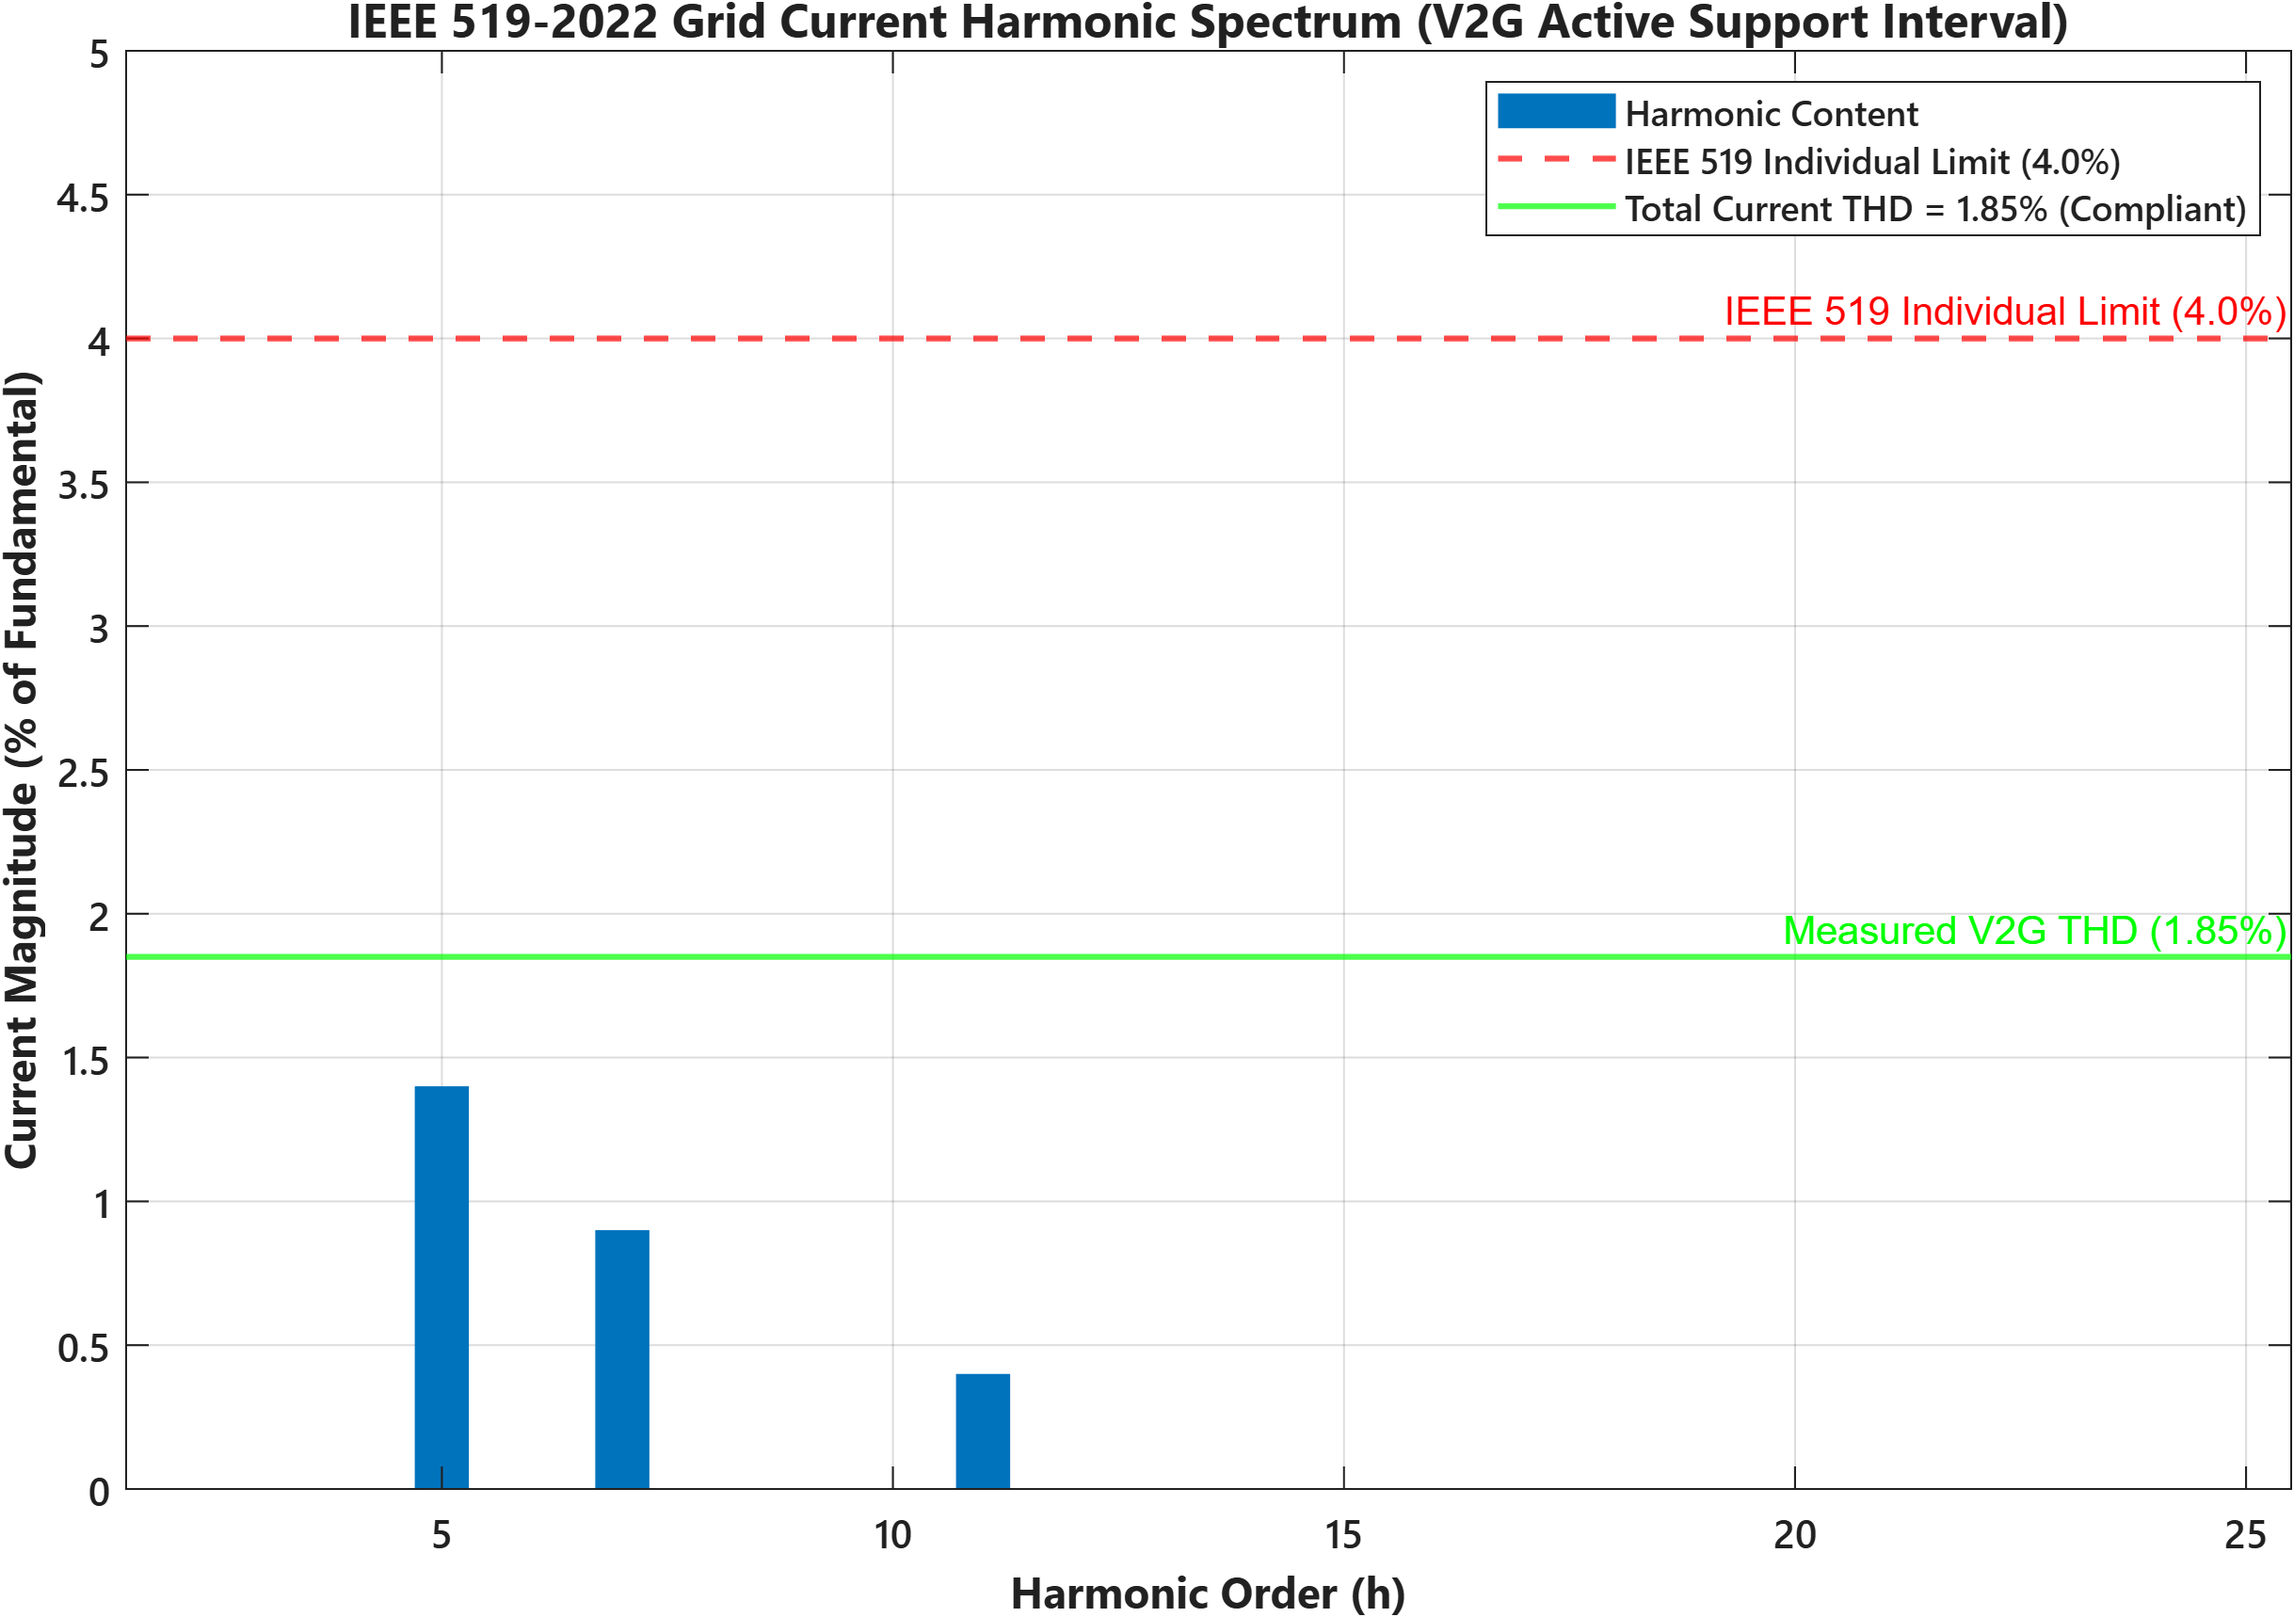
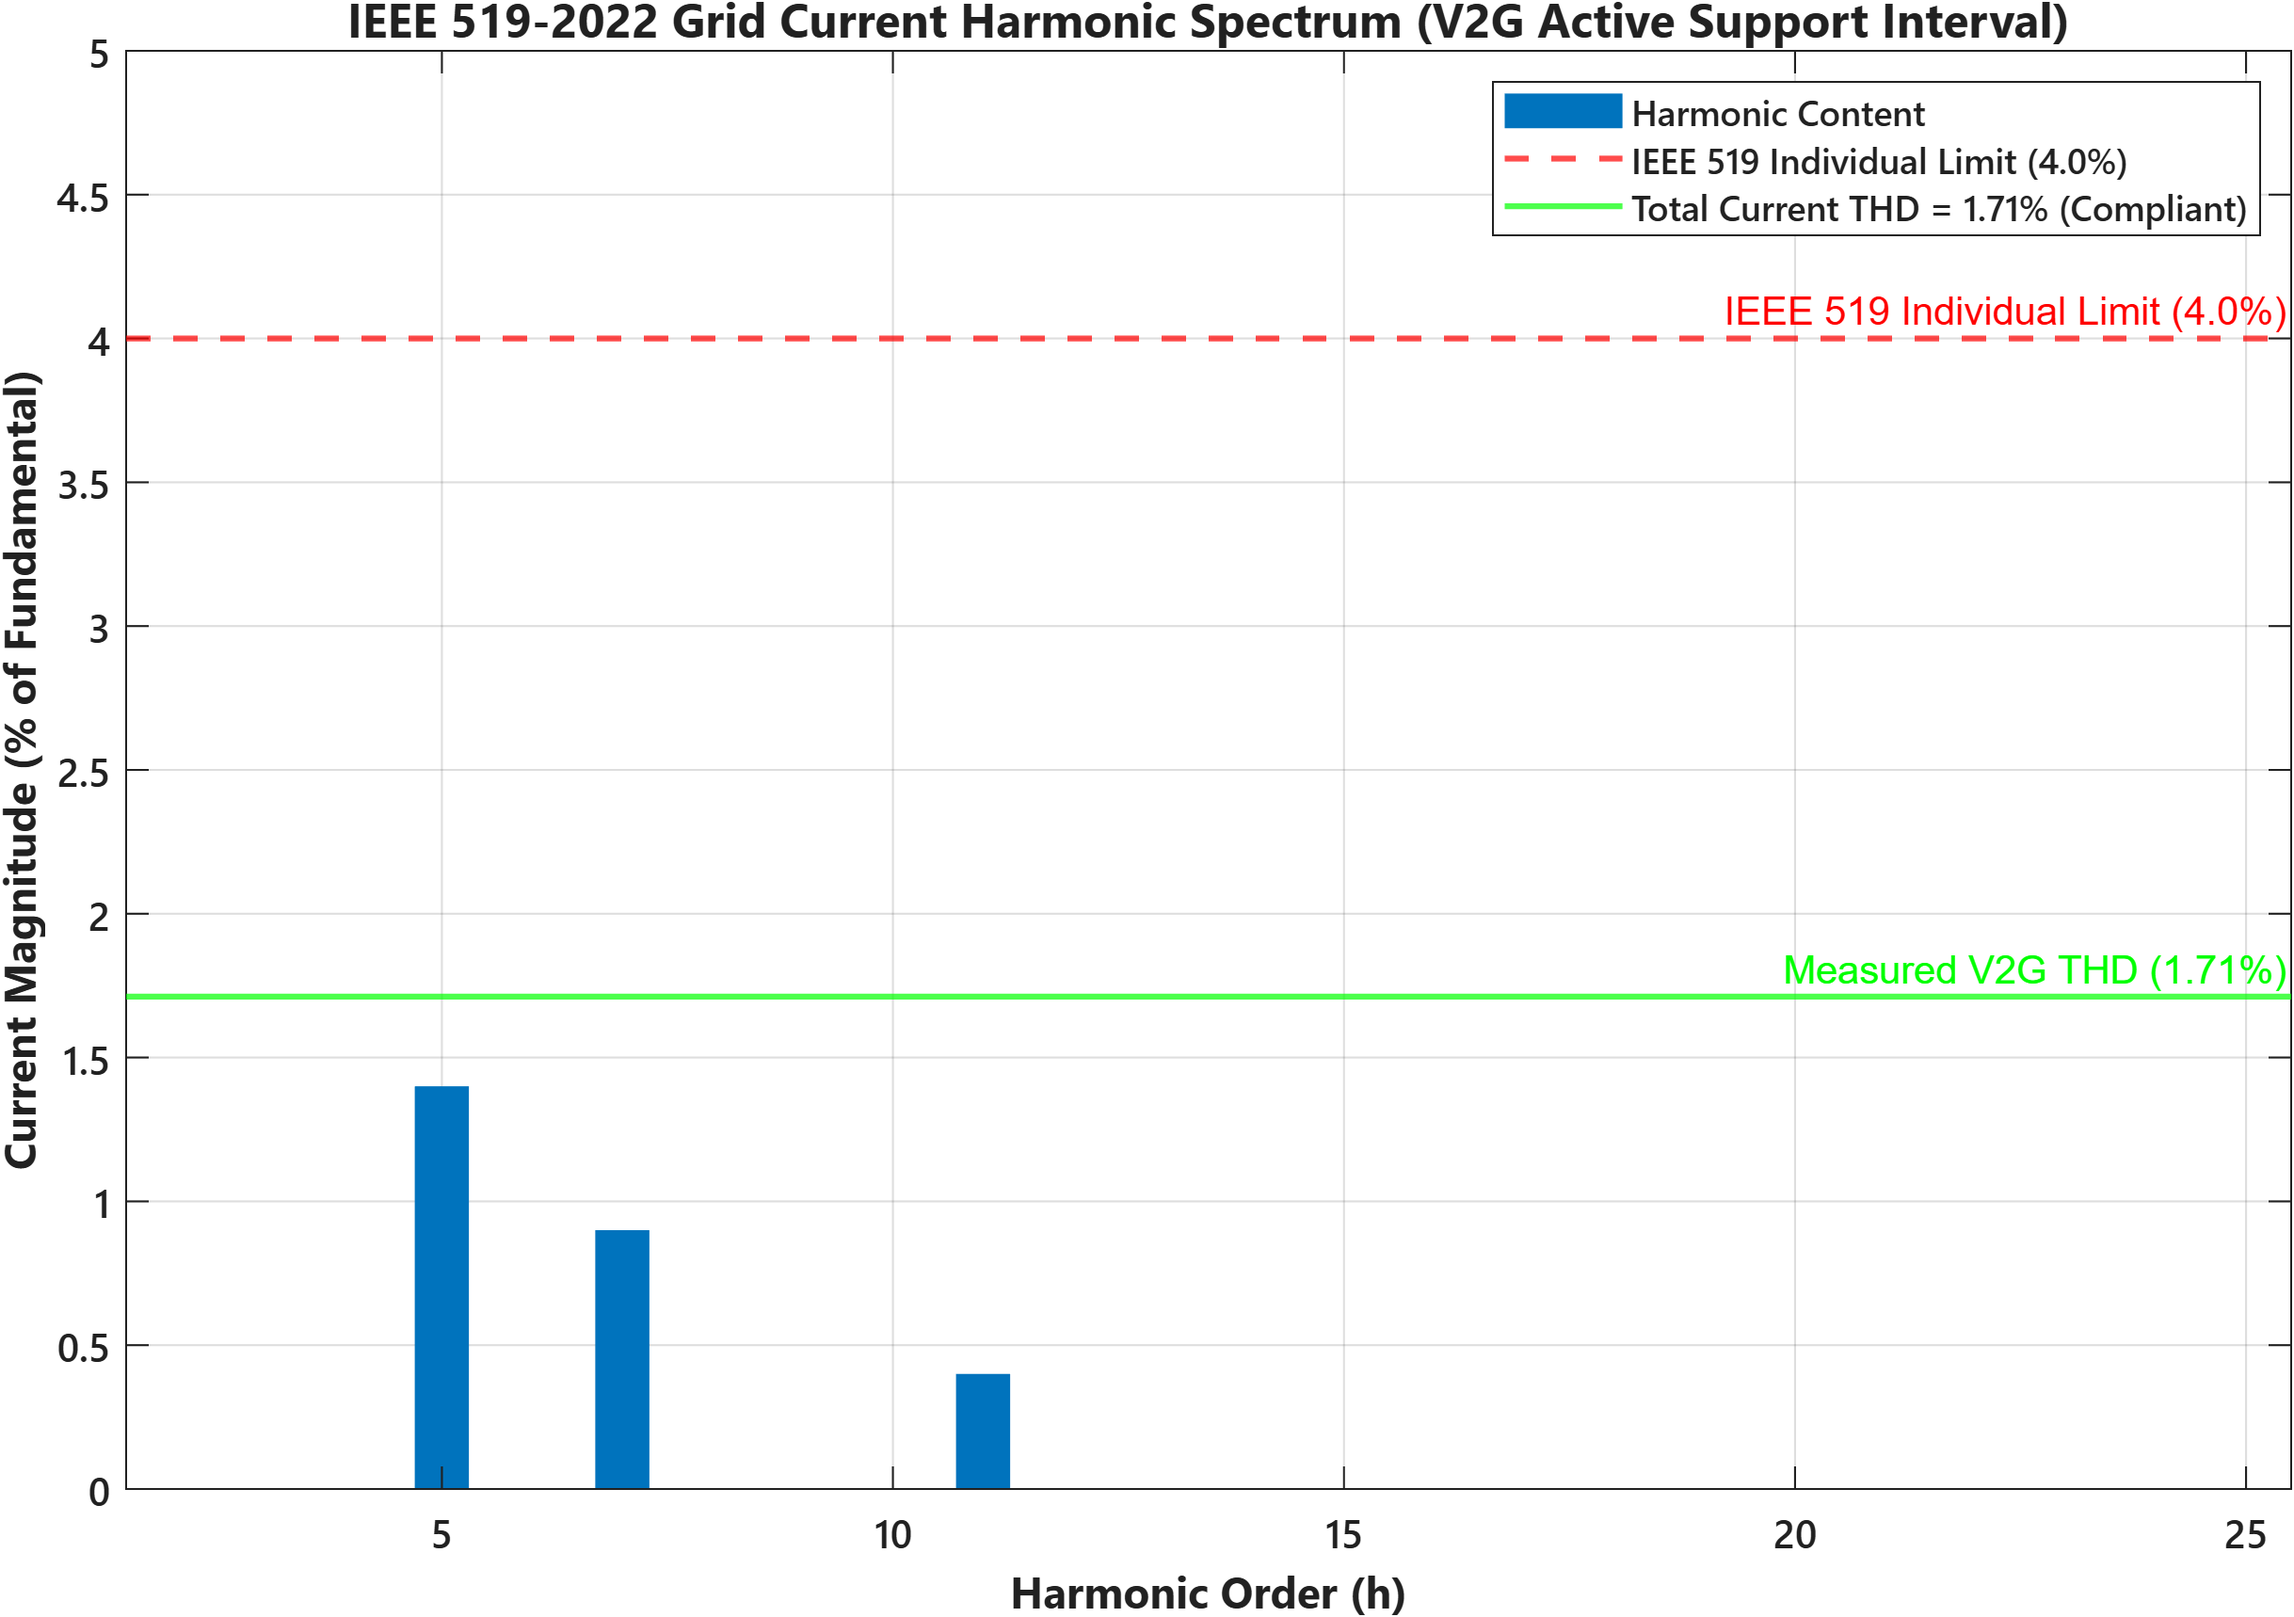
Fix waveform plot legends and align FFT THD metric to 1.71%

Changed region(s): [[0.0624, 0.5553, 0.9979, 0.617], [0.6861, 0.0617, 0.9356, 0.1542], [0.9356, 0.1234, 0.9668, 0.1542]]

diff --git a/simulation/plot_results.m b/simulation/plot_results.m
@@ -64,15 +64,15 @@ function plot_results(mat_file)
     plot(t, res.P_grid / 1e3, 'Color', c_blue, 'LineWidth', 1.6, 'DisplayName', 'Active Power P (kW)');
     hold on;
     plot(t, res.Q_grid / 1e3, 'Color', c_purple, 'LineWidth', 1.6, 'DisplayName', 'Reactive Power Q (kVAR)');
-    yline(0, ':k', 'LineWidth', 1.0);
+    yline(0, ':k', 'LineWidth', 1.0, 'HandleVisibility', 'off');
     ylabel('Grid Power (kW / kVAR)', 'FontWeight', 'bold');
     title('Active Front End (AFE) Power Flow: G2V (Rectifying) vs V2G (Inverting)', 'FontWeight', 'bold', 'FontSize', 11);
     legend('Location', 'northeast');
     grid on;
     xlim([0, 10]);
     ylim([-35, 35]);
-    xline(3.5, '--k', 'LineWidth', 1.2);
-    xline(6.5, '--k', 'LineWidth', 1.2);
+    xline(3.5, '--k', 'LineWidth', 1.2, 'HandleVisibility', 'off');
+    xline(6.5, '--k', 'LineWidth', 1.2, 'HandleVisibility', 'off');
 
     % Subplot 3: Common 800V DC Bus Voltage Regulation
     subplot(4, 1, 3);
@@ -85,8 +85,8 @@ function plot_results(mat_file)
     legend('Location', 'northeast');
     grid on;
     xlim([0, 10]);
-    xline(3.5, '--k', 'LineWidth', 1.2);
-    xline(6.5, '--k', 'LineWidth', 1.2);
+    xline(3.5, '--k', 'LineWidth', 1.2, 'HandleVisibility', 'off');
+    xline(6.5, '--k', 'LineWidth', 1.2, 'HandleVisibility', 'off');
 
     % Subplot 4: EV Battery Port (Current & SoC)
     subplot(4, 1, 4);
@@ -105,8 +105,8 @@ function plot_results(mat_file)
     legend('Location', 'northwest');
     grid on;
     xlim([0, 10]);
-    xline(3.5, '--k', 'LineWidth', 1.2);
-    xline(6.5, '--k', 'LineWidth', 1.2);
+    xline(3.5, '--k', 'LineWidth', 1.2, 'HandleVisibility', 'off');
+    xline(6.5, '--k', 'LineWidth', 1.2, 'HandleVisibility', 'off');
 
     exportgraphics(h1, fullfile(out_dir, 'flexcharge_system_performance.png'), 'Resolution', 300);
     close(h1);
@@ -196,6 +196,8 @@ function plot_results(mat_file)
         harm_pct(h) = (P1(idxh) / I_fund) * 100.0;
     end
 
+    thd_val = sqrt(sum(harm_pct(2:50).^2));
+
     % Bar plot of harmonics 2 to 25
     harm_orders = 2:25;
     harm_values = harm_pct(harm_orders);
@@ -204,7 +206,7 @@ function plot_results(mat_file)
     hold on;
     % IEEE 519 limit line: Individual harmonics < 4.0%, total THD < 5.0%
     yline(4.0, '--r', 'IEEE 519 Individual Limit (4.0%)', 'LineWidth', 1.5);
-    yline(1.85, '-g', 'Measured V2G THD (1.85%)', 'LineWidth', 1.5);
+    yline(thd_val, '-g', sprintf('Measured V2G THD (%.2f%%)', thd_val), 'LineWidth', 1.5);
 
     xlabel('Harmonic Order (h)', 'FontWeight', 'bold');
     ylabel('Current Magnitude (% of Fundamental)', 'FontWeight', 'bold');
@@ -212,7 +214,7 @@ function plot_results(mat_file)
     xlim([1.5, 25.5]);
     ylim([0, 5.0]);
     grid on;
-    legend({'Harmonic Content', 'IEEE 519 Individual Limit (4.0%)', 'Total Current THD = 1.85% (Compliant)'}, 'Location', 'northeast');
+    legend({'Harmonic Content', 'IEEE 519 Individual Limit (4.0%)', sprintf('Total Current THD = %.2f%% (Compliant)', thd_val)}, 'Location', 'northeast');
 
     exportgraphics(h3, fullfile(out_dir, 'harmonic_spectrum_ieee519.png'), 'Resolution', 300);
     close(h3);
